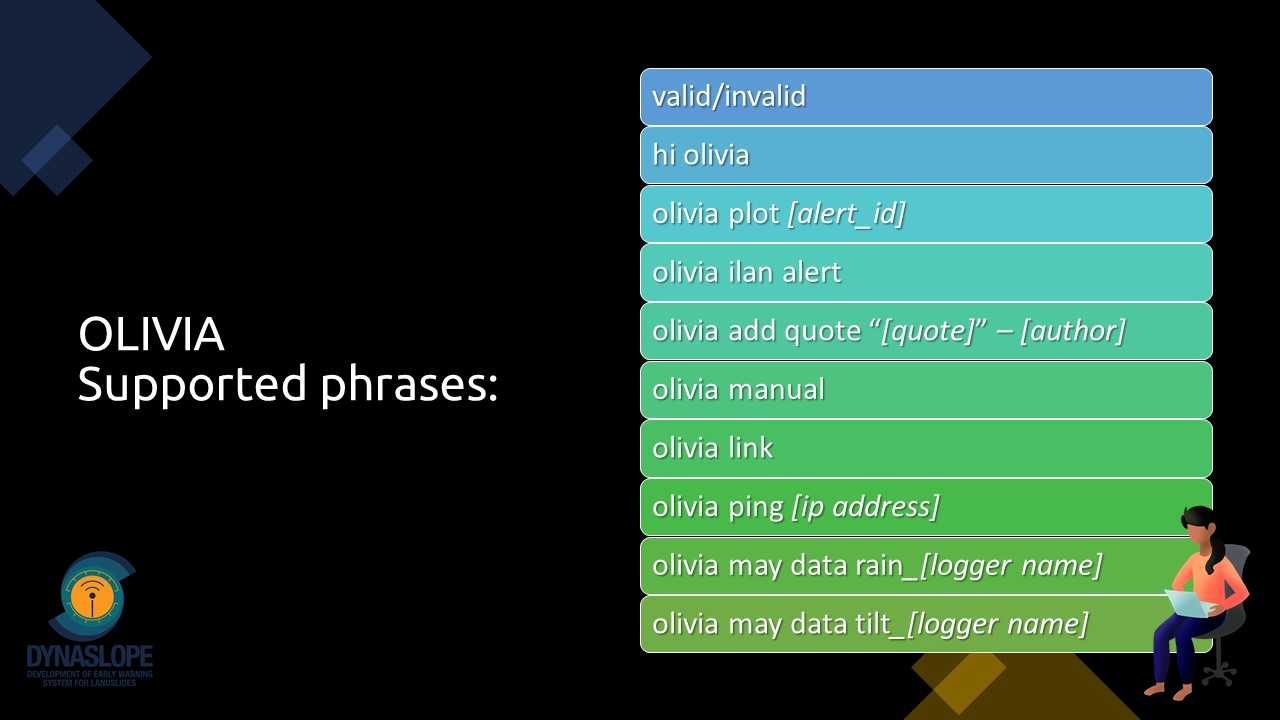
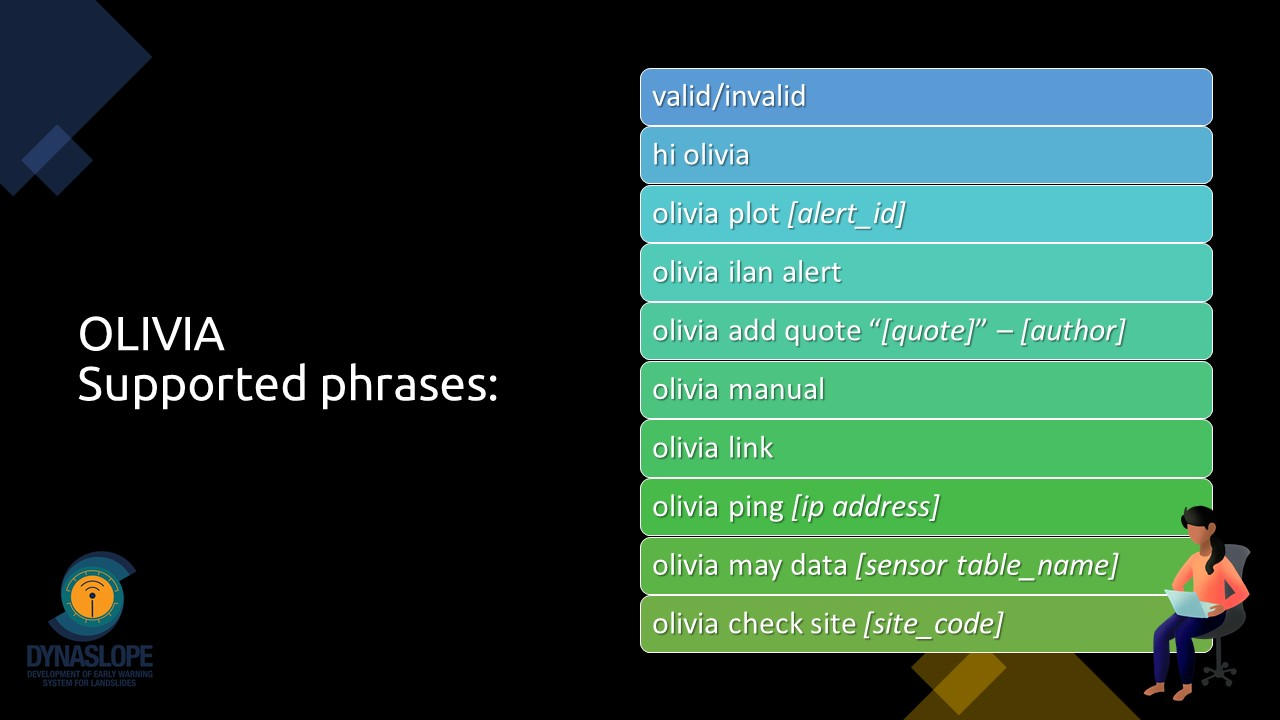
update olivia_receive_message.py additional key phrase "olivia check site"

Changed region(s): [[0.6562, 0.7639, 0.875, 0.825], [0.5625, 0.8556, 0.875, 0.8861]]

diff --git a/google/olivia_receive_message.py b/google/olivia_receive_message.py
@@ -61,7 +61,47 @@ def insert_db_data(query):
     db.commit()
     # disconnect from server
     db.close()
+
+def check_data(table_name = '', data = False):
+    list_mes = []
+    try:
+        if re.search("rain",table_name):
+            query_table = ("SELECT * FROM {} "
+                           "where ts <= NOW() order by data_id desc limit 1 ".format(table_name))
+        else:
+            query_table = ("SELECT ts, node_id, type_num FROM {} "
+                           "where ts > (SELECT ts FROM {} where ts <= NOW() order by ts desc limit 1) "
+                           "- interval 30 minute and ts<=NOW() ".format(table_name,table_name))
+        
+        last_data = db.df_read(query_table, connection= "analysis")
+        latest_ts = last_data.ts.max()
+        
+        if dt.now()-latest_ts <= td(minutes = 30):
+            list_mes.append("{}: MERON ngayon".format(table_name))
+        else:
+            list_mes.append("{}: WALA ngayon".format(table_name))        
+        
+        if data:
+            list_mes.append("latest ts: {}".format(latest_ts))
+            if re.search("rain",table_name):
+                list_mes.append("rain = {}mm".format(last_data.rain[0]))
+                list_mes.append("batt1 = {}".format(last_data.battery1[0]))
+                list_mes.append("batt2 = {}".format(last_data.battery2[0]))
+            else:
+                #for v2 and up
+                if len(table_name)>9:
+                    num_nodes = last_data.groupby('type_num').size().rename('num').reset_index()
+        
+                    for msgid,n_nodes in zip(num_nodes.type_num,num_nodes.num):
+                        list_mes.append("msgid = {} ; # of nodes = {}".format(msgid,n_nodes))
+                #for v1
+                else:
+                    n_nodes = last_data.node_id.count()
+                    list_mes.append("# of nodes = {}".format(n_nodes))
+    except:
+        list_mes = ["error table: {}".format(table_name)]
     
+    return list_mes
     
 def main(alert):    
     site_id = alert.site_id
@@ -356,62 +396,54 @@ def on_event(conv_event):
             cmd = "/home/sensordev/miniconda3/bin/python3.7 ~/sdteambranch/google/send_message.py --conversation-id {} --message-text '{}'".format(conversation_id,message)
             os.system(cmd)
  																																																																																																																																																																																																																																																																																																																																																																																																																																																																																																																																																																																																																																																																																																																																																																																																																																																																																																																																																																																																																																																																																																																																																																																																																																																																																																																																																																																																																																																																																																																																																																																																																																																																																																																																																																																																																																																																																																																																																																																																																																																																																																																																																																																																																																																																																																																																																																																																																																																																																																																																																																																																																																																																																																																																																																																																																																																																																																																																																																																																																																																																																																																																																																																																																																																																																																																																																																																																																																																																																																																																																																																																																																																																																																																																																																																																																																																																																																																																												   
-        elif (re.search('olivia may data tilt',received_msg.lower()) or
-              re.search('olivia may data ba tilt',received_msg.lower()) or
-              re.search('olivia may data soms',received_msg.lower()) or 
-              re.search('olivia may data ba soms',received_msg.lower()) ):
-            table_name = received_msg.split(' ')[3]
-            try:
-                query_table = ("SELECT ts, node_id, type_num FROM {} "
-                               "where ts > (SELECT ts FROM {} where ts <= NOW() order by data_id desc limit 1) "
-                               "- interval 30 minute".format(table_name,table_name))
-                last_data = db.df_read(query_table, connection= "analysis")
-                latest_ts = last_data.ts.max()
-                num_nodes = last_data.groupby('type_num').size().rename('num').reset_index()
-                
-                mes = []
-                if dt.now()-latest_ts <= td(minutes = 30):
-                    mes.append("MERON ngayon")
-                else:
-                    mes.append("WALA ngayon")
-                    
-                mes.append("latest ts: {}".format(latest_ts))
-                for msgid,n_nodes in zip(num_nodes.type_num,num_nodes.num):
-                    mes.append("msgid = {} ; # of nodes = {}".format(msgid,n_nodes))
-            except:
-                mes = ["error table: {}".format(table_name)]
+        elif re.search('olivia may data',received_msg.lower()) :
+            table_name = received_msg.lower().split(' ')[3]
+            mes = check_data(table_name, True)
             
             for message in mes:
                 cmd = "/home/sensordev/miniconda3/bin/python3.7 ~/sdteambranch/google/send_message.py --conversation-id {} --message-text '{}'".format(conversation_id,message)
                 os.system(cmd)
         
-        elif (re.search('olivia may data rain',received_msg.lower()) or 
-              re.search('olivia may data ba rain',received_msg.lower())):
-            table_name = received_msg.split(' ')[3]
+                        
+        elif re.search('olivia check site [A-Za-z]{3}',received_msg.lower()):
+            site_code = received_msg.lower().split(' ')[3]
+            df_sites = mem.get("DF_SITES")
             
+            mes = []
             try:
-                query_table = ("SELECT * FROM {} "
-                               "where ts <= NOW() order by data_id desc limit 1 ".format(table_name,table_name))
-                last_data = db.df_read(query_table, connection= "analysis")
-                latest_ts = last_data.ts.max()
+                site_id = df_sites.site_id[df_sites.site_code == site_code].values[0]
                 
+                query_loggers = ("SELECT * FROM (Select logger_name, model_id from commons_db.loggers "
+                                 "where site_id = {} and date_deactivated is NULL and logger_id not in (141)) as l "
+                                 "inner join commons_db.logger_models "
+                                 "on logger_models.model_id = l.model_id".format(site_id))
+                site_loggers = db.df_read(query_loggers,connection="common")
                 mes = []
-                if dt.now()-latest_ts <= td(minutes = 30):
-                    mes.append("MERON ngayon")
-                else:
-                    mes.append("WALA ngayon")
+                for i in site_loggers.index:
+                    #if has rain
+                    if site_loggers.has_rain[i] == 1:
+                        table_name = "rain_{}".format(site_loggers.logger_name[i])
+                        add_mes = check_data(table_name)
+                        mes.extend(add_mes)  
                     
-                mes.append("latest ts: {}".format(latest_ts))
-                mes.append("rain = {}mm".format(last_data.rain[0]))
-                mes.append("batt1 = {}".format(last_data.battery1[0]))
-                mes.append("batt2 = {}".format(last_data.battery2[0]))
-            
+                    #if has tilt
+                    if site_loggers.has_tilt[i] == 1 and site_loggers.logger_type[i]!="gateway":
+                        table_name = "tilt_{}".format(site_loggers.logger_name[i])
+                        add_mes = check_data(table_name)
+                        mes.extend(add_mes)  
+                        
+                    #if has soms
+                    if site_loggers.has_soms[i] == 1 and site_loggers.logger_type[i]!="gateway":
+                        table_name = "soms_{}".format(site_loggers.logger_name[i])
+                        add_mes = check_data(table_name)
+                        mes.extend(add_mes)  
+                        
             except:
-                mes = ["error table: {}".format(table_name)]
+                mes = ["error site_code: {}".format(site_code)]
             
             for message in mes:
                 cmd = "/home/sensordev/miniconda3/bin/python3.7 ~/sdteambranch/google/send_message.py --conversation-id {} --message-text '{}'".format(conversation_id,message)
-                os.system(cmd)                           
-                        
+                os.system(cmd)
+
 if __name__ == '__main__':
     run_example(receive_messages)
